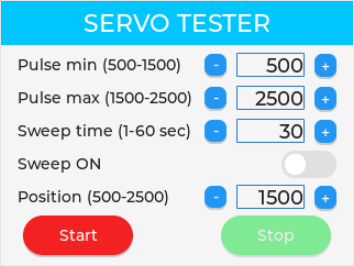
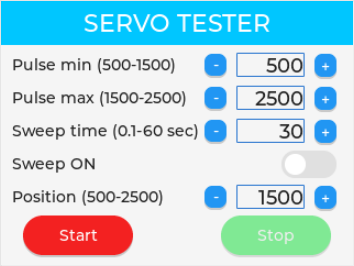
Update User Interface

diff --git a/ServoTester/screens.c b/ServoTester/screens.c
@@ -905,7 +905,7 @@ void create_screen_tester() {
         }
         {
             lv_obj_t *obj = lv_label_create(parent_obj);
-            lv_obj_set_pos(obj, 15, 50);
+            lv_obj_set_pos(obj, 10, 50);
             lv_obj_set_size(obj, LV_SIZE_CONTENT, LV_SIZE_CONTENT);
             lv_label_set_text(obj, "Pulse min (500-1500)");
         }
@@ -962,7 +962,7 @@ void create_screen_tester() {
         }
         {
             lv_obj_t *obj = lv_label_create(parent_obj);
-            lv_obj_set_pos(obj, 15, 80);
+            lv_obj_set_pos(obj, 10, 80);
             lv_obj_set_size(obj, LV_SIZE_CONTENT, LV_SIZE_CONTENT);
             lv_label_set_text(obj, "Pulse max (1500-2500)");
         }
@@ -1019,9 +1019,9 @@ void create_screen_tester() {
         }
         {
             lv_obj_t *obj = lv_label_create(parent_obj);
-            lv_obj_set_pos(obj, 15, 110);
+            lv_obj_set_pos(obj, 10, 110);
             lv_obj_set_size(obj, LV_SIZE_CONTENT, LV_SIZE_CONTENT);
-            lv_label_set_text(obj, "Sweep time (1-60 sec)");
+            lv_label_set_text(obj, "Sweep time (0.1-60 sec)");
         }
         {
             // stsweepdec
@@ -1076,7 +1076,7 @@ void create_screen_tester() {
         }
         {
             lv_obj_t *obj = lv_label_create(parent_obj);
-            lv_obj_set_pos(obj, 15, 170);
+            lv_obj_set_pos(obj, 10, 170);
             lv_obj_set_size(obj, LV_SIZE_CONTENT, LV_SIZE_CONTENT);
             lv_label_set_text(obj, "Position (500-2500)");
         }
@@ -1101,7 +1101,7 @@ void create_screen_tester() {
         }
         {
             lv_obj_t *obj = lv_label_create(parent_obj);
-            lv_obj_set_pos(obj, 15, 140);
+            lv_obj_set_pos(obj, 10, 140);
             lv_obj_set_size(obj, LV_SIZE_CONTENT, LV_SIZE_CONTENT);
             lv_label_set_text(obj, "Sweep ON");
         }
